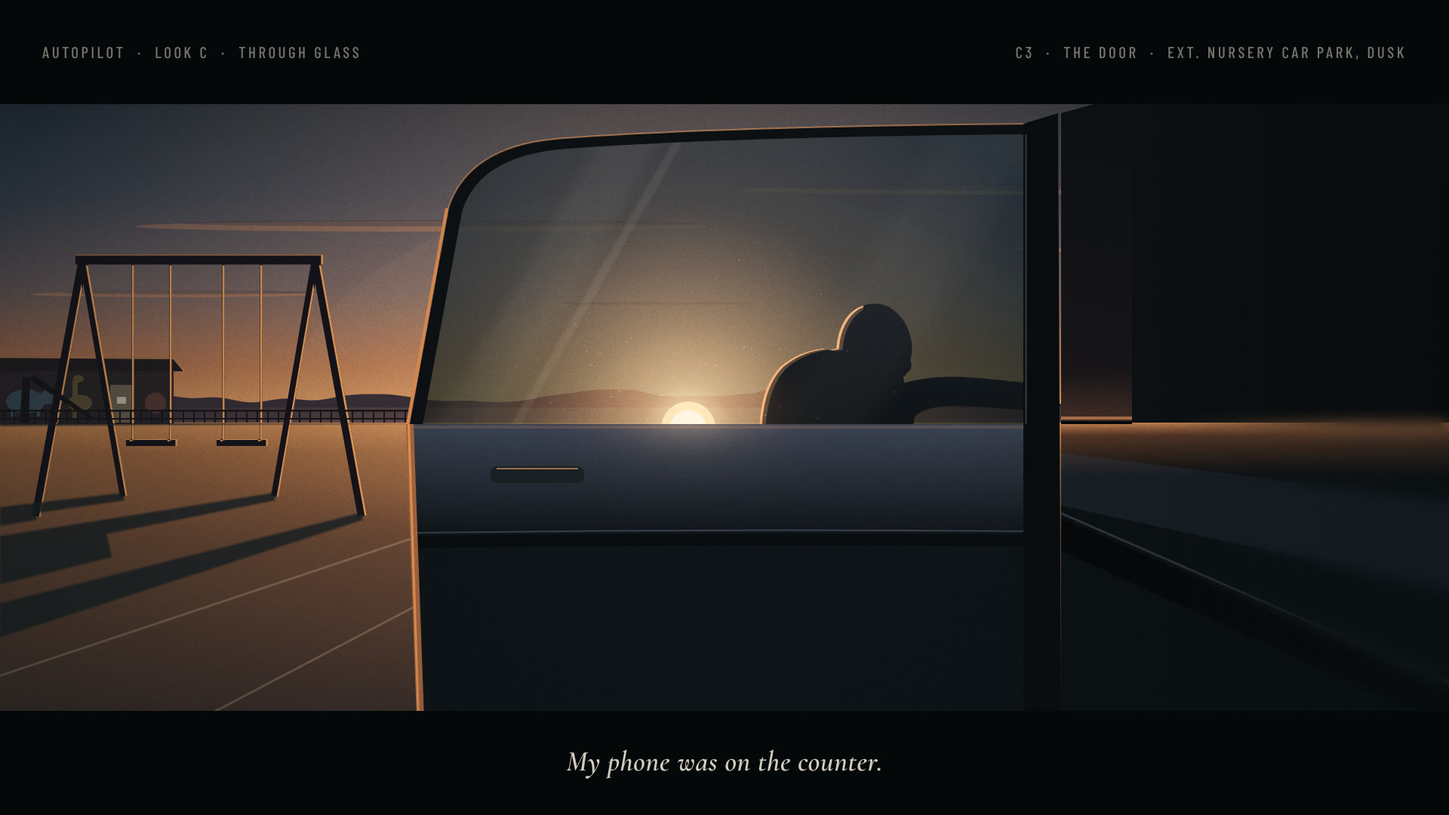
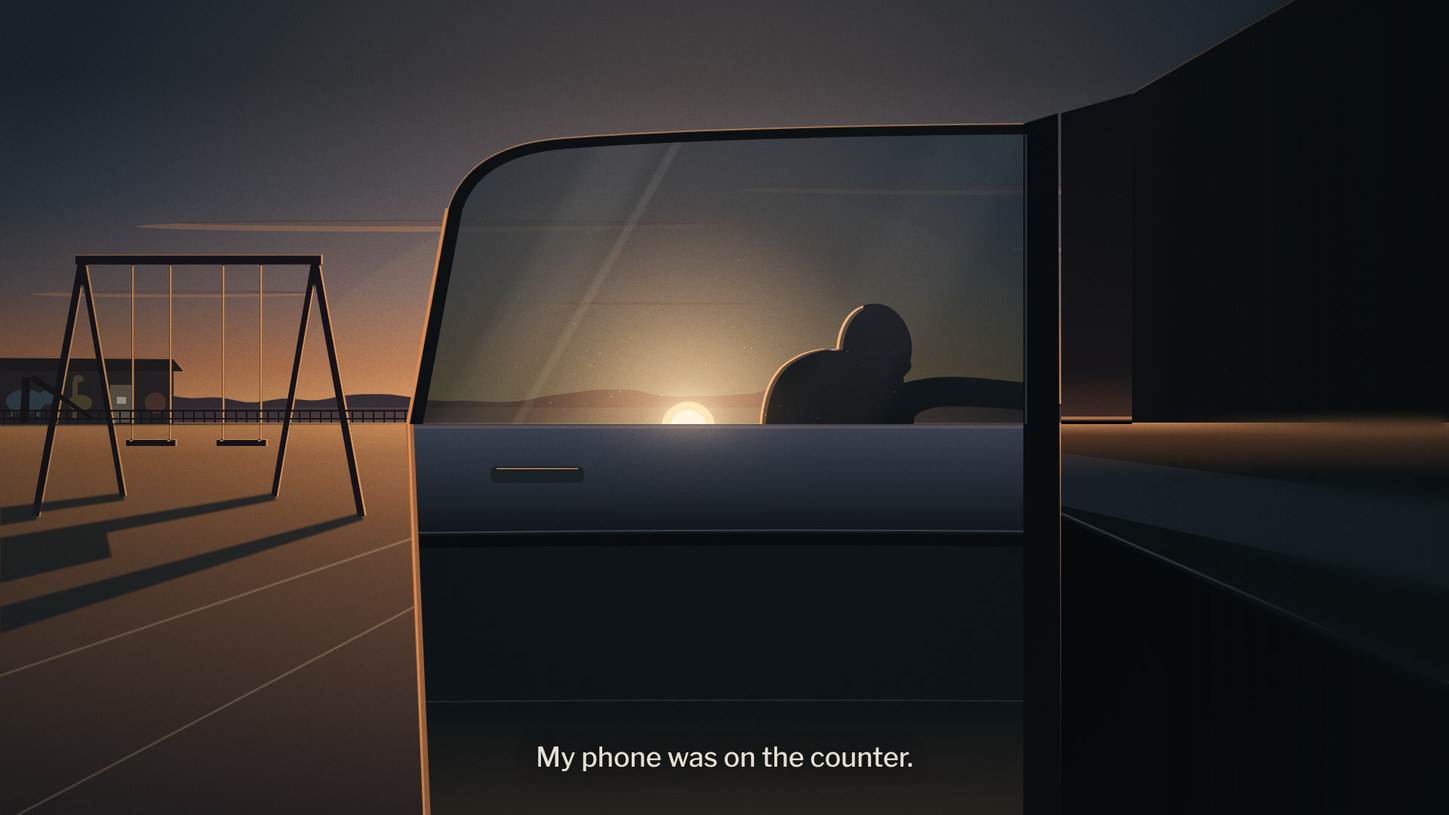
Autopilot: Look C chosen; full 16:9, no slate, subtitles in the picture
The author chose Look C (Through Glass) with three changes: no letterbox bars,
no title or scene-heading text, and subtitles in the picture as in Look B.
The three frames now run to the frame's edges (the door, the tarmac and the car's
flank in C3; the window jamb and the worktop in C1), and kit/look_c.js has an
in-picture caption in place of the letterbox subtitle and slate.

Claude-Session: https://claude.ai/code/session_01A8JfgvUzR898ZAVoVKxaGp

diff --git a/films/autopilot/src/C3_door.html b/films/autopilot/src/C3_door.html
@@ -13,7 +13,7 @@
   const ctx = OTM.stage(), { W, H } = OTM, P = LC.P;
   const f = OTM.frame(ctx, { seed: 47 });
   const g = f.world, E = f.emissive;
-  const TOP = 138, BOT = 942;
+  const TOP = 138, BOT = 942;                   // the old 2.39 live area; the world now runs past it to the frame's edges
   const HOR = 560, BL = 562;                    // the camera's eye is at the beltline: the far horizon lies on the window's lower edge
   const VP = [1300, HOR];                        // the car's flank rushes to this point; the open door stands square to us
   const SUN = [912, 568], SR = 36;
@@ -37,7 +37,7 @@
     c.fillStyle = '#4A3840'; c.fillRect(-10, HOR - 6, W + 20, 8);
   };
   const tarmac = c => {
-    c.fillStyle = LC.lin(c, 0, HOR, 0, BOT + 20, [[0, '#CC8650'], [0.1, '#A0663F'], [0.4, '#6C4935'], [1, '#3A2D2A']]); c.fillRect(0, HOR, W, BOT - HOR + 40);
+    c.fillStyle = LC.lin(c, 0, HOR, 0, H + 20, [[0, '#CC8650'], [0.08, '#A0663F'], [0.34, '#6C4935'], [0.8, '#3A2D2A'], [1, '#2C2224']]); c.fillRect(0, HOR, W, H - HOR + 40);
     c.save(); c.globalCompositeOperation = 'screen'; c.translate(SUN[0], HOR); c.scale(1, 0.2); c.fillStyle = LC.rad(c, 0, 0, 0, 760, [[0, '#FFC27E', 0.62], [0.4, '#E89A5E', 0.18], [1, '#E89A5E', 0]]); c.fillRect(-900, -100, 1800, 3000); c.restore();
   };
 
@@ -47,7 +47,7 @@
   const out = LC.layer();
   sky(out); far(out); tarmac(out);
   // faded parking bay lines running toward us
-  out.strokeStyle = 'rgba(232,200,160,0.3)'; out.lineWidth = 3; [[-260], [210]].forEach(([x0]) => { out.beginPath(); out.moveTo(VP[0] - 300 + (x0 + 300) * 0.02, HOR + 2); out.lineTo(x0, BOT + 40); out.stroke(); });
+  out.strokeStyle = 'rgba(232,200,160,0.3)'; out.lineWidth = 3; [[-260], [210]].forEach(([x0]) => { const xs = VP[0] - 300 + (x0 + 300) * 0.02, ys = HOR + 2, t = (H + 40 - ys) / (BOT + 40 - ys); out.beginPath(); out.moveTo(xs, ys); out.lineTo(xs + (x0 - xs) * t, H + 40); out.stroke(); });
   // the nursery: low brick, painted animals gone dim in its own shade, plywood on the front door and a notice on it
   { out.fillStyle = '#2C2427'; out.fillRect(-20, 488, 250, HOR - 488 + 2); out.fillStyle = '#231C1F'; out.beginPath(); out.moveTo(-30, 492); out.lineTo(244, 492); out.lineTo(230, 474); out.lineTo(-20, 472); out.closePath(); out.fill();
     out.strokeStyle = 'rgba(240,160,100,0.7)'; out.lineWidth = 2; out.beginPath(); out.moveTo(-20, 473); out.lineTo(230, 475); out.lineTo(244, 492); out.stroke();
@@ -69,7 +69,7 @@
   { const sl = new Path2D(); sl.moveTo(26, HOR); sl.lineTo(30, 500); sl.lineTo(40, 500); sl.lineTo(38, HOR); sl.closePath(); sl.moveTo(40, 504); sl.lineTo(120, HOR - 4); sl.lineTo(128, HOR - 4); sl.lineTo(44, 496); sl.closePath(); out.fillStyle = '#191519'; out.fill(sl); }
   // the long shadows: everything between us and the sun lays a dark ray across the copper, toward us
   { const sh = LC.layer(); sh.fillStyle = '#1B2226';
-    const ray = (bx, by, w0, w1) => { const dx = bx - SUN[0], dy = Math.max(2, by - HOR), t = (BOT + 80 - by) / dy, ex = bx + dx * t, ey = BOT + 80; const ax = Math.atan2(ey - by, ex - bx), nx = -Math.sin(ax), ny = Math.cos(ax);
+    const ray = (bx, by, w0, w1) => { const dx = bx - SUN[0], dy = Math.max(2, by - HOR), t = (H + 80 - by) / dy, ex = bx + dx * t, ey = H + 80; const ax = Math.atan2(ey - by, ex - bx), nx = -Math.sin(ax), ny = Math.cos(ax);
       sh.beginPath(); sh.moveTo(bx + nx * w0, by + ny * w0); sh.lineTo(ex + nx * w1, ey + ny * w1); sh.lineTo(ex - nx * w1, ey - ny * w1); sh.lineTo(bx - nx * w0, by - ny * w0); sh.closePath(); sh.fill(); };
     // legs, chains and seats: the frame's legs as long bars, the hanging chains as threads, the seats as two dark blades
     [[SW.x0 - 62, SW.base], [SW.x0 + 54, SW.base - 26], [SW.x1 - 54, SW.base - 26], [SW.x1 + 62, SW.base]].forEach(([x, y]) => ray(x, y, 5, 46));
@@ -129,7 +129,7 @@
   { const sash = new Path2D(); sash.moveTo(HX + 2, 164); sash.bezierCurveTo(1100, 166, 856, 174, 736, 184); sash.bezierCurveTo(652, 192, 610, 226, 594, 276); sash.lineTo(542, BL + 2); sash.lineTo(RX, BL + 2); sash.lineTo(612, 282); sash.bezierCurveTo(626, 236, 664, 206, 742, 198); sash.bezierCurveTo(860, 188, 1100, 180, HX, 178); sash.closePath();
     g.fillStyle = '#0C1013'; g.fill(sash);
     g.strokeStyle = 'rgba(242,164,104,0.6)'; g.lineWidth = 2; g.beginPath(); g.moveTo(HX + 2, 164); g.bezierCurveTo(1100, 166, 856, 174, 736, 184); g.bezierCurveTo(652, 192, 610, 226, 594, 276); g.lineTo(542, BL); g.stroke(); }
-  const panel = LC.pathPts([[542, BL], [HX + 6, BL], [HX + 6, BOT + 10], [556, BOT + 10]]);
+  const panel = LC.pathPts([[542, BL], [HX + 6, BL], [HX + 6, H + 10], [565, H + 10]]);   // the door is close: its lower edge is below the frame
   g.fillStyle = '#0E1417'; g.fill(panel);
   g.save(); g.clip(panel);
   g.fillStyle = LC.lin(g, 0, BL, 0, BL + 150, [[0, '#4A5266', 0.75], [1, '#4A5266', 0]]); g.fillRect(500, BL, 900, 150);       // the east, dim, laid along the paint
@@ -137,10 +137,13 @@
   g.strokeStyle = 'rgba(118,128,150,0.4)'; g.lineWidth = 2; g.beginPath(); g.moveTo(552, 706); g.quadraticCurveTo(960, 700, HX + 6, 704); g.stroke();
   g.fillStyle = 'rgba(0,0,0,0.38)'; g.beginPath(); g.moveTo(552, 710); g.quadraticCurveTo(960, 704, HX + 6, 708); g.lineTo(HX + 6, 724); g.quadraticCurveTo(960, 720, 552, 726); g.closePath(); g.fill();
   g.fillStyle = '#192024'; g.fill(LC.rrect(650, 618, 124, 22, 10)); g.fillStyle = 'rgba(240,170,110,0.6)'; g.fillRect(658, 620, 108, 2);
+  // the lower door: a soft second swage, and the copper tarmac faintly laid along the bottom of the paint
+  g.strokeStyle = 'rgba(110,120,142,0.22)'; g.lineWidth = 2; g.beginPath(); g.moveTo(560, 930); g.quadraticCurveTo(960, 926, HX + 6, 929); g.stroke();
+  g.fillStyle = LC.lin(g, 0, 940, 0, H, [[0, '#C07A4C', 0], [1, '#C07A4C', 0.16]]); g.fillRect(540, 940, 880, H - 940);
   g.restore();
   // the free edge: the door's thickness, turned to the sun
-  g.fillStyle = '#A9683F'; g.fill(LC.pathPts([[538, BL], [548, BL], [562, BOT + 10], [552, BOT + 10]]));
-  g.fillStyle = '#EC9858'; g.fill(LC.pathPts([[540, BL], [543, BL], [556, BOT + 10], [553, BOT + 10]]));
+  g.fillStyle = '#A9683F'; g.fill(LC.pathPts([[538, BL], [548, BL], [571, H + 10], [561, H + 10]]));
+  g.fillStyle = '#EC9858'; g.fill(LC.pathPts([[540, BL], [543, BL], [564, H + 10], [561, H + 10]]));
   g.fillStyle = '#E28E52'; g.fill(LC.pathPts([[590, 276], [594, 276], [542, BL], [538, BL]]));
 
   // =====================================================================
@@ -148,7 +151,7 @@
   //    (at this grazing angle the glass is a mirror: only the sunset, never the inside)
   // =====================================================================
   // hinge-side frame of the door and the B-pillar behind it: the dark band his arm passes behind
-  g.fillStyle = '#090C0E'; g.fill(LC.pathPts([[HX - 6, 164], [HX + 40, 150], [HX + 44, BOT + 10], [HX - 6, BOT + 10]]));
+  g.fillStyle = '#090C0E'; g.fill(LC.pathPts([[HX - 6, 164], [HX + 40, 150], [HX + 44, H + 10], [HX - 6, H + 10]]));
   g.fillStyle = 'rgba(80,90,104,0.45)'; g.fillRect(HX - 4, 178, 3, BL - 178);
   { const nb = LC.layer();
     // the front door's window, foreshortened to a sliver: a dark mirror holding the reflected door and one copper seam
@@ -156,17 +159,17 @@
     nb.fillStyle = LC.lin(nb, 0, 112, 0, HOR, [[0, '#0C0F13'], [0.85, '#191619'], [1, '#4A3028']]); nb.fill(sl);
     nb.fillStyle = 'rgba(232,150,92,0.7)'; nb.fillRect(HX + 44, HOR - 8, 1500 - HX - 44, 4);
     // the near bodywork beyond it, rushing past the lens: A-pillar, the door's front edge, the wing
-    const ap = LC.pathPts([[1500, 124], [1680, 20], [W + 40, 20], [W + 40, HOR], [1500, HOR]]);
+    const ap = LC.pathPts([[1500, 124], [1784, -40], [W + 40, -40], [W + 40, HOR], [1500, HOR]]);
     nb.fillStyle = LC.lin(nb, 1500, 0, W, 0, [[0, '#0D1013'], [1, '#07090B']]); nb.fill(ap);
-    const body = LC.pathPts([[HX + 44, HOR], [W + 40, HOR], [W + 40, BOT + 40], [HX + 44, BOT + 40]]);
+    const body = LC.pathPts([[HX + 44, HOR], [W + 40, HOR], [W + 40, H + 40], [HX + 44, H + 40]]);
     nb.fillStyle = '#0B1013'; nb.fill(body);
     nb.save(); nb.clip(body);
     nb.fillStyle = LC.lin(nb, 0, HOR, 0, HOR + 70, [[0, '#E89A5E', 0.95], [0.25, '#B8683E', 0.45], [1, '#B8683E', 0]]); nb.fillRect(HX, HOR, W, 70);
     nb.strokeStyle = 'rgba(130,140,160,0.32)'; nb.lineWidth = 3; nb.beginPath(); nb.moveTo(HX + 44, HOR + 120); nb.lineTo(W + 40, BOT - 20); nb.stroke();
-    nb.fillStyle = 'rgba(0,0,0,0.45)'; nb.beginPath(); nb.moveTo(HX + 44, HOR + 126); nb.lineTo(W + 40, BOT - 10); nb.lineTo(W + 40, BOT + 40); nb.lineTo(HX + 44, HOR + 170); nb.closePath(); nb.fill();
+    nb.fillStyle = 'rgba(0,0,0,0.45)'; nb.beginPath(); nb.moveTo(HX + 44, HOR + 126); nb.lineTo(W + 40, BOT - 10); nb.lineTo(W + 40, H + 40); nb.lineTo(HX + 44, H + 40); nb.closePath(); nb.fill();
     nb.fillStyle = 'rgba(66,74,94,0.28)'; nb.fill(LC.pathPts([[HX + 44, HOR + 40], [W + 40, HOR + 110], [W + 40, HOR + 230], [HX + 44, HOR + 110]]));
     nb.restore();
-    nb.strokeStyle = 'rgba(232,150,92,0.3)'; nb.lineWidth = 2; nb.beginPath(); nb.moveTo(1500, 124); nb.lineTo(1680, 20); nb.stroke();
+    nb.strokeStyle = 'rgba(232,150,92,0.3)'; nb.lineWidth = 2; nb.beginPath(); nb.moveTo(1500, 124); nb.lineTo(1784, -40); nb.stroke();
     // the nearest of it is out of focus
     g.drawImage(nb.canvas, 0, 0);
     const soft = LC.layer(); soft.drawImage(nb.canvas, 0, 0); soft.globalCompositeOperation = 'destination-in'; soft.fillStyle = LC.lin(soft, 1560, 0, 1800, 0, [[0, '#000000', 0], [1, '#000000', 1]]); soft.fillRect(0, 0, W, H);
@@ -174,11 +177,10 @@
     g.strokeStyle = '#05070A'; g.lineWidth = 4; g.beginPath(); g.moveTo(HX + 44, HOR); g.lineTo(1500, HOR); g.stroke(); }
 
   // =====================================================================
-  // 6. FINISH: the V.O. sits in the matte, outside the glass
+  // 6. FINISH: full 16:9, Daniel's V.O. in the picture at the lighter weight
   // =====================================================================
-  f.finish({ letterbox: 2.39, grain: 0.06, fibre: 0, vignette: 0, halation: 0.6, matteColor: P.matte, beforePost: c => LC.vignette(c, 0.5, P.ink) });
-  LC.slate(ctx, 'AUTOPILOT  ·  LOOK C  ·  THROUGH GLASS', 'C3  ·  THE DOOR  ·  EXT. NURSERY CAR PARK, DUSK');
-  LC.subtitle(ctx, [{ text: 'My phone was on the counter.', color: P.bone, family: 'Cormorant Garamond', weight: 600, style: 'italic', size: 38, tracking: 0.5, alpha: 0.92 }], {});
+  f.finish({ letterbox: 0, grain: 0.06, fibre: 0, vignette: 0, halation: 0.6, beforePost: c => LC.vignette(c, 0.5, P.ink) });
+  LC.caption(ctx, ['My phone was on the counter.'], { y: 1016, size: 36, weight: 500, color: P.bone, halo: 'rgba(4,8,10,0.55)', haloBlur: 12 });
   window.FRAME_READY = true;
 })();
 </script>

diff --git a/films/autopilot/src/C1_counter.html b/films/autopilot/src/C1_counter.html
@@ -12,7 +12,7 @@
   const ctx = OTM.stage(), { W, H } = OTM, P = LC.P;
   const f = OTM.frame(ctx, { seed: 21 });
   const g = f.world, E = f.emissive;
-  const TOP = 138, BOT = 942;
+  const TOP = 138, BOT = 942;                   // the old 2.39 live area; the frame is full 16:9 now, so the set runs to its edges
 
   // ---------------- layout (frame px) ----------------
   const RAIL = { y0: 672, y1: 728 };          // window bottom rail; the worktop meets it at y1
@@ -181,16 +181,16 @@
   g.fillStyle = '#BCC7C1'; g.fillRect(REVEAL, RAIL.y0, W, 13);                       // the rail's sloping top, catching the sky
   g.fillStyle = LC.lin(g, 0, RAIL.y0 + 13, 0, RAIL.y1, [[0, '#869590'], [1, '#64716C']]); g.fillRect(REVEAL, RAIL.y0 + 13, W, RAIL.y1 - RAIL.y0 - 13);
   g.fillStyle = fDark; g.fillRect(REVEAL, RAIL.y0 - 3, W, 3); g.fillStyle = 'rgba(255,255,255,0.4)'; g.fillRect(REVEAL, RAIL.y0 - 6, W, 2);
-  g.fillStyle = LC.lin(g, REVEAL, 0, 0, 0, [[0, '#A0ADA7'], [1, '#56625E']]); g.fill(LC.pathPts([[0, TOP - 10], [REVEAL, TOP - 10], [REVEAL, RAIL.y1], [0, RAIL.y1 + 30]]));
-  g.fillStyle = fFace; g.fillRect(REVEAL - 12, TOP - 10, 12, RAIL.y1 - TOP + 10); g.fillStyle = fEdge; g.fillRect(REVEAL - 2, TOP - 10, 2, RAIL.y1 - TOP + 10);
+  g.fillStyle = LC.lin(g, REVEAL, 0, 0, 0, [[0, '#A0ADA7'], [1, '#56625E']]); g.fill(LC.pathPts([[0, -10], [REVEAL, -10], [REVEAL, RAIL.y1], [0, RAIL.y1 + 30]]));
+  g.fillStyle = fFace; g.fillRect(REVEAL - 12, -10, 12, RAIL.y1 + 10); g.fillStyle = fEdge; g.fillRect(REVEAL - 2, -10, 2, RAIL.y1 + 10);
 
   // =====================================================================
   // 5. THE WORKTOP (oiled oak in cool shade; its satin finish mirrors the window as a bright band)
   // =====================================================================
   const WT = RAIL.y1;
-  g.fillStyle = LC.lin(g, 0, WT, 0, BOT, [[0, '#76675A'], [0.3, '#56493F'], [1, '#1E1B19']]);
+  g.fillStyle = LC.lin(g, 0, WT, 0, H, [[0, '#76675A'], [0.2, '#56493F'], [0.6, '#2B2622'], [1, '#161413']]);
   g.fill(LC.pathPts([[0, RAIL.y1 + 30], [REVEAL, WT], [W, WT], [W, H], [0, H]]));
-  { const R = OTM.rng('grain'); g.save(); g.globalAlpha = 0.16; for (let i = 0; i < 64; i++) { const y = WT + 5 + Math.pow(R(), 1.5) * (BOT - WT); g.strokeStyle = R() > 0.5 ? '#251F1A' : '#8C7B68'; g.lineWidth = 0.6 + (y - WT) / 240; g.beginPath(); g.moveTo(-20, y + R() * 4); g.bezierCurveTo(600, y + (R() - 0.5) * 6, 1300, y + (R() - 0.5) * 6, W + 20, y + (R() - 0.5) * 4); g.stroke(); } g.restore(); }
+  { const R = OTM.rng('grain'); g.save(); g.globalAlpha = 0.16; for (let i = 0; i < 64; i++) { const y = WT + 5 + Math.pow(R(), 1.5) * (H - WT); g.strokeStyle = R() > 0.5 ? '#251F1A' : '#8C7B68'; g.lineWidth = 0.6 + (y - WT) / 240; g.beginPath(); g.moveTo(-20, y + R() * 4); g.bezierCurveTo(600, y + (R() - 0.5) * 6, 1300, y + (R() - 0.5) * 6, W + 20, y + (R() - 0.5) * 4); g.stroke(); } g.restore(); }
   { const rf = LC.layer(); rf.fillStyle = LC.lin(rf, 0, WT, 0, WT + 110, [[0, '#CCD5CF', 0.5], [1, '#CCD5CF', 0]]); rf.fillRect(REVEAL, WT, W, 110);
     rf.globalCompositeOperation = 'destination-out'; rf.fillStyle = '#000'; rf.fillRect(640, WT, 284, 140); rf.fillRect(1150, WT, 510, 140);
     g.save(); g.globalCompositeOperation = 'screen'; g.drawImage(LC.blurred(rf.canvas, 6, false), 0, 0); g.restore(); }
@@ -198,7 +198,7 @@
   { const sh = LC.layer(); sh.fillStyle = 'rgba(6,9,9,0.7)'; sh.beginPath(); sh.ellipse(784, 742, 165, 18, 0, 0, Math.PI * 2); sh.fill();
     sh.fillStyle = 'rgba(6,9,9,0.32)'; sh.beginPath(); sh.moveTo(640, 738); sh.lineTo(926, 734); sh.lineTo(990, 840); sh.lineTo(590, 846); sh.closePath(); sh.fill();
     g.drawImage(LC.blurred(sh.canvas, 12, false), 0, 0); }
-  g.save(); g.globalCompositeOperation = 'soft-light'; g.fillStyle = LC.lin(g, 0, 800, 0, BOT, [[0, P.honey, 0], [1, P.honey, 0.3]]); g.fillRect(0, 800, W, BOT - 800); g.restore();
+  g.save(); g.globalCompositeOperation = 'soft-light'; g.fillStyle = LC.lin(g, 0, 800, 0, H, [[0, P.honey, 0], [1, P.honey, 0.3]]); g.fillRect(0, 800, W, H - 800); g.restore();
 
   // =====================================================================
   // 6. THE PHONE
@@ -316,9 +316,8 @@
   // =====================================================================
   // 8. FINISH
   // =====================================================================
-  f.finish({ letterbox: 2.39, grain: 0.055, fibre: 0, vignette: 0, halation: 0.55, matteColor: P.matte,
+  f.finish({ letterbox: 0, grain: 0.055, fibre: 0, vignette: 0, halation: 0.55,
     beforePost: c => LC.vignette(c, 0.45, P.ink) });
-  LC.slate(ctx, 'AUTOPILOT  ·  LOOK C  ·  THROUGH GLASS', 'C1  ·  THE COUNTER  ·  INT. KITCHEN, MORNING');
   window.FRAME_READY = true;
 })();
 </script>

diff --git a/films/autopilot/kit/look_c.js b/films/autopilot/kit/look_c.js
@@ -5,7 +5,8 @@
    - flat fills, stepped (posterised) gradients, soft beams
    - the glass kit: glare streaks, specks of dust, refraction bands, fresnel ramps
    - chrome(): environment-mapped reflections on any surface whose normal we can describe
-   - matte typography: words are never written on the world; dialogue and V.O. sit in the letterbox, outside the glass
+   - captions: full 16:9 frame, no letterbox and no slate; dialogue and V.O. sit in the picture, bottom centre,
+     in the same idiom as Look B (Libre Franklin, sentence case, soft dark halo, no box), as the author asked
    Deterministic: no Math.random, no Date. Uses OTM.rng / OTM.vnoise / OTM.fbm only. */
 (function (G) {
   'use strict';
@@ -187,29 +188,28 @@
 
   // ---------- post ----------
   function vignette(ctx, strength, color, cx, cy, r0, r1) {
-    const a = OTM.liveArea(2.39); cx = cx == null ? W / 2 : cx; cy = cy == null ? (a.top + a.bottom) / 2 : cy;
-    ctx.save(); ctx.fillStyle = rad(ctx, cx, cy, r0 == null ? H * 0.28 : r0, r1 == null ? W * 0.62 : r1, [[0, color || P.ink, 0], [1, color || P.ink, strength]]);
-    ctx.fillRect(0, a.top, W, a.h); ctx.restore();
+    cx = cx == null ? W / 2 : cx; cy = cy == null ? H / 2 : cy;
+    ctx.save(); ctx.fillStyle = rad(ctx, cx, cy, r0 == null ? H * 0.3 : r0, r1 == null ? W * 0.64 : r1, [[0, color || P.ink, 0], [1, color || P.ink, strength]]);
+    ctx.fillRect(0, 0, W, H); ctx.restore();
   }
 
-  // ---------- matte typography (outside the glass) ----------
+  // ---------- captions, in the picture (the Look B idiom) ----------
   const FONT = (o) => `${o.style || 'normal'} ${o.weight || 400} ${o.size || 30}px "${o.family}"`;
-  // runs: [{text, color, family, weight, style, size, tracking}] laid out on one centred line in the bottom matte
-  function subtitle(ctx, runs, o) {
-    o = o || {}; const a = OTM.liveArea(2.39); const y = o.y || Math.round(a.bottom + (H - a.bottom) * 0.5 + (o.dy || 10)); const gap = o.gap == null ? 34 : o.gap;
-    ctx.save(); ctx.textBaseline = 'alphabetic';
-    const ws = runs.map(r => { ctx.font = FONT(r); ctx.letterSpacing = (r.tracking || 0) + 'px'; return ctx.measureText(r.text).width; });
-    const total = ws.reduce((s, w) => s + w, 0) + gap * (runs.length - 1);
-    let x = o.align === 'left' ? (o.x || 96) : (W - total) / 2;
-    runs.forEach((r, i) => { ctx.font = FONT(r); ctx.letterSpacing = (r.tracking || 0) + 'px'; ctx.fillStyle = r.color; ctx.globalAlpha = r.alpha == null ? 1 : r.alpha; ctx.fillText(r.text, x, y); x += ws[i] + gap; });
-    ctx.restore();
-  }
-  function slate(ctx, left, right) {
-    const a = OTM.liveArea(2.39), y = Math.round(a.top / 2 + 8);
-    ctx.save(); ctx.globalAlpha = 0.5; ctx.fillStyle = P.bone; ctx.textBaseline = 'alphabetic'; ctx.font = '500 21px "Barlow Condensed"'; ctx.letterSpacing = '3.5px';
-    ctx.textAlign = 'left'; ctx.fillText(left, 56, y); ctx.textAlign = 'right'; ctx.fillText(right, W - 56, y); ctx.restore();
+  // lines: [{t, color, alpha}] or strings, stacked upward from o.y and centred. Scene dialogue (only ever type) is bold 700;
+  // Daniel's voiced V.O. is the lighter 500. Emily's lines take her colour, everyone else's are white.
+  function caption(g, lines, o) {
+    o = Object.assign({ x: W / 2, y: H - 92, size: 46, lead: 1.28, family: 'Libre Franklin', weight: 700, color: '#FFFFFF',
+      halo: 'rgba(4,10,11,0.6)', haloBlur: 14, align: 'center', tracking: 0 }, o || {});
+    g.save(); g.font = FONT(o); g.textAlign = o.align; g.textBaseline = 'alphabetic'; g.letterSpacing = o.tracking + 'px';
+    const L = lines.map(l => typeof l === 'string' ? { t: l } : l), n = L.length;
+    L.forEach((l, i) => {
+      const y = o.y - (n - 1 - i) * o.size * o.lead;
+      if (o.halo) { g.save(); g.filter = `blur(${o.haloBlur}px)`; g.fillStyle = o.halo; g.fillText(l.t, o.x, y); g.fillText(l.t, o.x, y); g.restore(); }
+      g.fillStyle = l.color || o.color; g.globalAlpha = l.alpha == null ? 1 : l.alpha; g.fillText(l.t, o.x, y); g.globalAlpha = 1;
+    });
+    g.restore();
   }
 
   G.LC = { P, clamp, lerp, mix, rgba, hexToRgb, layer, blurred, flipX, lin, rad, pathPts, rrect, rquad, fillPts, smooth, camera, quad, stepGrad, beam,
-    glare, specks, smudge, env, sampler, chrome, vignette, subtitle, slate, FONT };
+    glare, specks, smudge, env, sampler, chrome, vignette, caption, FONT };
 })(window);

diff --git a/films/autopilot/src/C2_mirror.html b/films/autopilot/src/C2_mirror.html
@@ -273,14 +273,10 @@
   g.fillStyle = '#0C0E0F'; g.fill(LC.rrect(872, 614, 52, 20, 6));
 
   // =====================================================================
-  // 7. FINISH: grain, halation, the matte; the dialogue sits outside the glass, in the letterbox
+  // 7. FINISH: grain, halation; full 16:9, the dialogue in the picture (Daniel white, Emily in her yellow)
   // =====================================================================
-  f.finish({ letterbox: 2.39, grain: 0.05, fibre: 0, vignette: 0, halation: 0.6, matteColor: P.matte, beforePost: c => LC.vignette(c, 0.38, P.ink) });
-  LC.slate(ctx, 'AUTOPILOT  ·  LOOK C  ·  THROUGH GLASS', 'C2  ·  THE MIRROR  ·  INT. CAR, MORNING');
-  LC.subtitle(ctx, [
-    { text: 'Better?', color: P.bone, family: 'Libre Franklin', weight: 500, size: 30, tracking: 0.5 },
-    { text: 'Mm-hmm.', color: P.emily, family: 'Libre Franklin', weight: 500, size: 30, tracking: 0.5 },
-  ], { gap: 64 });
+  f.finish({ letterbox: 0, grain: 0.05, fibre: 0, vignette: 0, halation: 0.6, beforePost: c => LC.vignette(c, 0.38, P.ink) });
+  LC.caption(ctx, [{ t: 'Better?' }, { t: 'Mm-hmm.', color: P.emily }], { y: 1040, size: 40, lead: 1.25 });
   window.FRAME_READY = true;
 })();
 </script>

diff --git a/films/autopilot/design/look_c.md b/films/autopilot/design/look_c.md
@@ -2,7 +2,9 @@
 
 **Pitch.** Every shot is framed through a pane (a screen, chrome, a mirror, a windscreen, a window), so the film is literally about what we look at and what we don't. In the end, the same glass that hid Emily all day is the glass we watch her father through.
 
-Style frames: `frames/C1_counter.jpg`, `frames/C2_mirror.jpg`, `frames/C3_door.jpg`. Sources: `src/C1_counter.html`, `src/C2_mirror.html`, `src/C3_door.html`. Helpers: `kit/look_c.js` (palette, perspective camera, glass compositor, environment-mapped chrome, matte type). All 2.39:1, Canvas 2D, deterministic.
+Style frames: `frames/C1_counter.jpg`, `frames/C2_mirror.jpg`, `frames/C3_door.jpg`. Sources: `src/C1_counter.html`, `src/C2_mirror.html`, `src/C3_door.html`. Helpers: `kit/look_c.js` (palette, perspective camera, glass compositor, environment-mapped chrome, captions). Full 16:9 (1920x1080) with no letterbox and no slate, Canvas 2D, deterministic.
+
+**The author chose this look**, with three changes, now in the frames: no black bars (the frame is full 16:9 and every set runs to its edges), no title or scene-heading text on screen, and the subtitles sit in the picture the way they do in Look B.
 
 ## The grammar
 
@@ -19,7 +21,7 @@ Style frames: `frames/C1_counter.jpg`, `frames/C2_mirror.jpg`, `frames/C3_door.j
 | Teal light scale (glass, distance) | `#7A918C` `#A9BAB4` `#CBD6D0` `#E3E9E3` |
 | Amber (sun, wood, lamplight) | `#24170F` `#563720` `#9A6535` `#CF9A5C` `#EBC68D` `#F6E3BC` `#FFF6E6` |
 | Copper (evening, dusk) | `#B25F2D` `#E4894A` (dusk sky `#232D38` → `#6A5A5C` → `#E39A5C`) |
-| Type (bone) / matte | `#E6E0D2` / `#040808` |
+| Captions: white, V.O. bone, halo | `#FFFFFF` / `#E6E0D2` / `rgba(4,10,11,0.6)` |
 | Daniel skin (light / mid / shade), hair | `#BE8C6C` `#9C6D55` `#5F3F33`, `#15100D` |
 | Emily skin (light / mid / shade) | `#D6A47F` `#B27E62` `#7B5240` |
 | **Phone green** (the key object, the only recurring accent) | `#7BE6A0` |
@@ -49,9 +51,10 @@ Style frames: `frames/C1_counter.jpg`, `frames/C2_mirror.jpg`, `frames/C3_door.j
 ## Time stamps and V.O.
 
 - **Time stamps are diegetic and always read off glass:** 6:14 on the phone's alarm screen, 8:32 on the dashboard clock reflected in the windscreen, and 5:37 in the corner of the laptop screen before the lid closes. The conference-room clock (10:18 to 11:43) is seen in the glass of a framed print. C1's screen shows the 7% charge, not a clock.
-- **Words are never written on the world.** All dialogue and V.O. sit in the bottom letterbox matte, outside the glass, the one place in the frame that isn't behind a pane.
-  - Sync dialogue is set in Libre Franklin 500. Daniel's lines are in bone, Emily's in her yellow (C2: "Better?" / "Mm-hmm.").
-  - V.O. is set in Cormorant Garamond italic, in bone, centred (C3: "My phone was on the counter.").
+- **No title or scene-heading text appears on screen.** The only words are the subtitles and what the world itself shows (the phone, the clocks, the nursery's notice).
+- **Subtitles sit in the picture, as in Look B** (`LC.caption`): sentence case, Libre Franklin, bottom centre, a soft dark halo and no box, at most two lines.
+  - Scene dialogue is only ever type, so it is set bold (700), 40 to 46 px. Daniel's lines are white and Emily's are in her yellow (C2: "Better?" / "Mm-hmm.").
+  - Daniel's V.O. is voiced, and its caption is the lighter 500 weight in bone, 36 to 42 px (C3: "My phone was on the counter.").
 - "Mm-hmm." is the last yellow type in the film. From then on, every word on screen is cold.
 
 ## How Emily's absence is carried after the mirror

diff --git a/films/autopilot/design/DECISIONS.md b/films/autopilot/design/DECISIONS.md
@@ -10,4 +10,7 @@ Settled with the author, Osita Miles.
 | Scene dialogue | On-screen type (Daniel, Emily, Priya, Sarah), as in *One Too Many*. |
 | Emily | Her lines stay on screen as type: a synthetic four-year-old's voice is more likely to sound wrong than moving. |
 | Restraint | Emily is never shown in the car after the mirror moment, and the inside of the car is never shown at the end ("We do not see inside."). |
-| Look | To be chosen from the three candidates in `LOOKS_BRIEF.md`. |
+| Look | **C, Through Glass** (`look_c.md`), chosen from the three candidates on `frames/BOARD_looks.jpg`. |
+| Frame | Full 16:9 (1920x1080): no letterbox bars, and every set runs to the frame's edges. |
+| On-screen text | No title, slate or scene headings on screen. Time is read off glass in the world (the phone, the dashboard clock, the laptop). |
+| Subtitles | In the picture, as in Look B: Libre Franklin, bottom centre, soft dark halo, no box. Scene dialogue bold and white (Emily's in her yellow); Daniel's V.O. lighter, in bone. |
